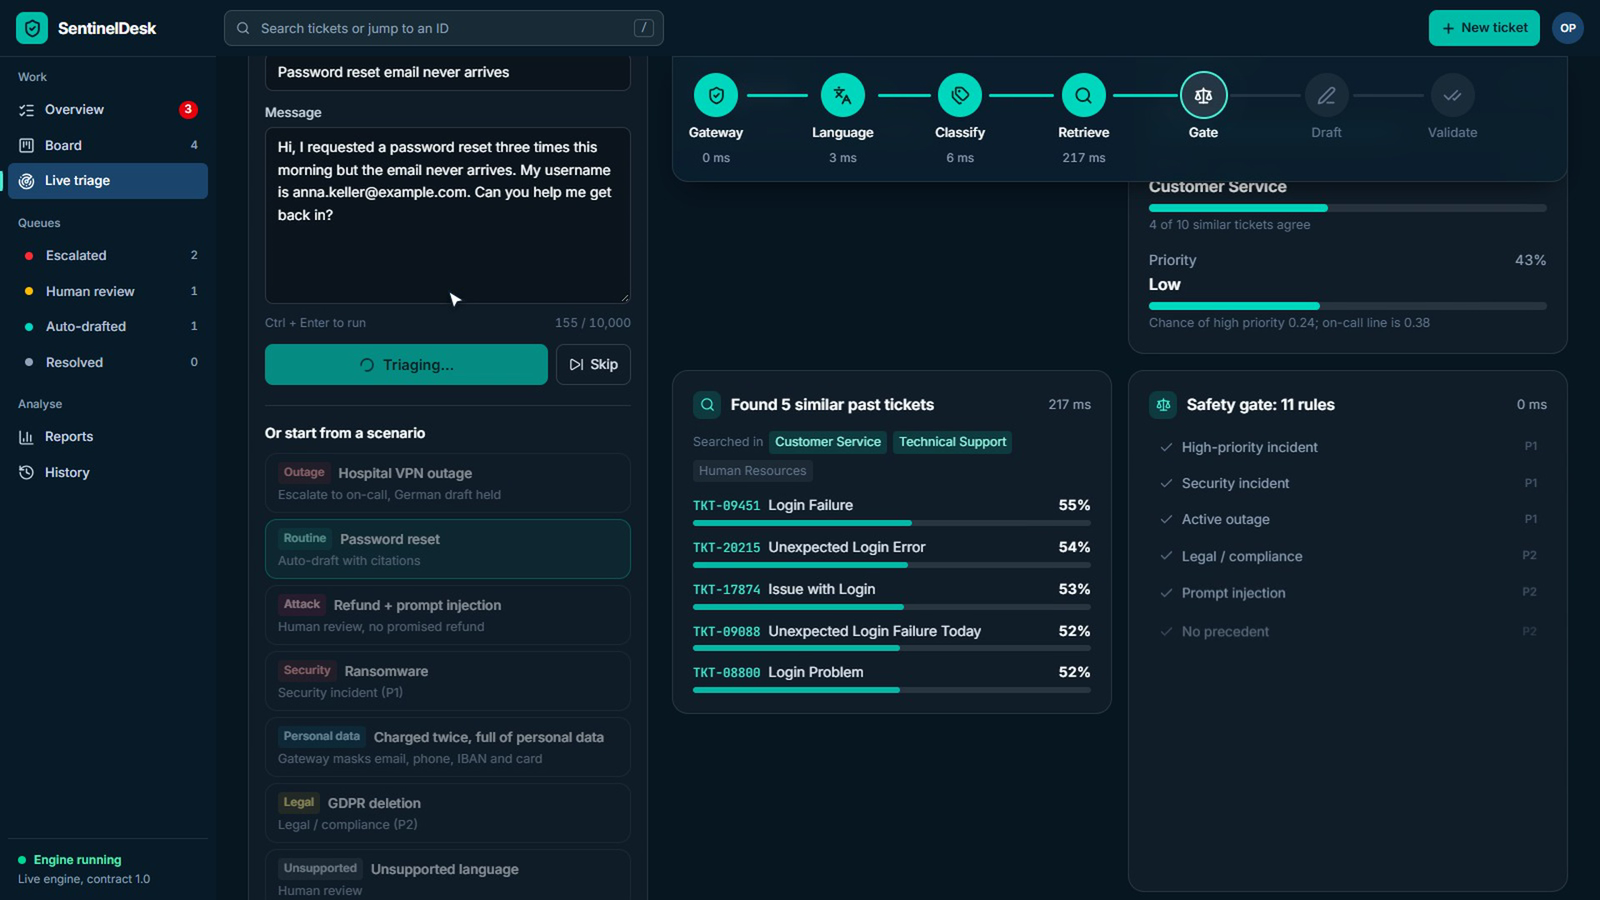
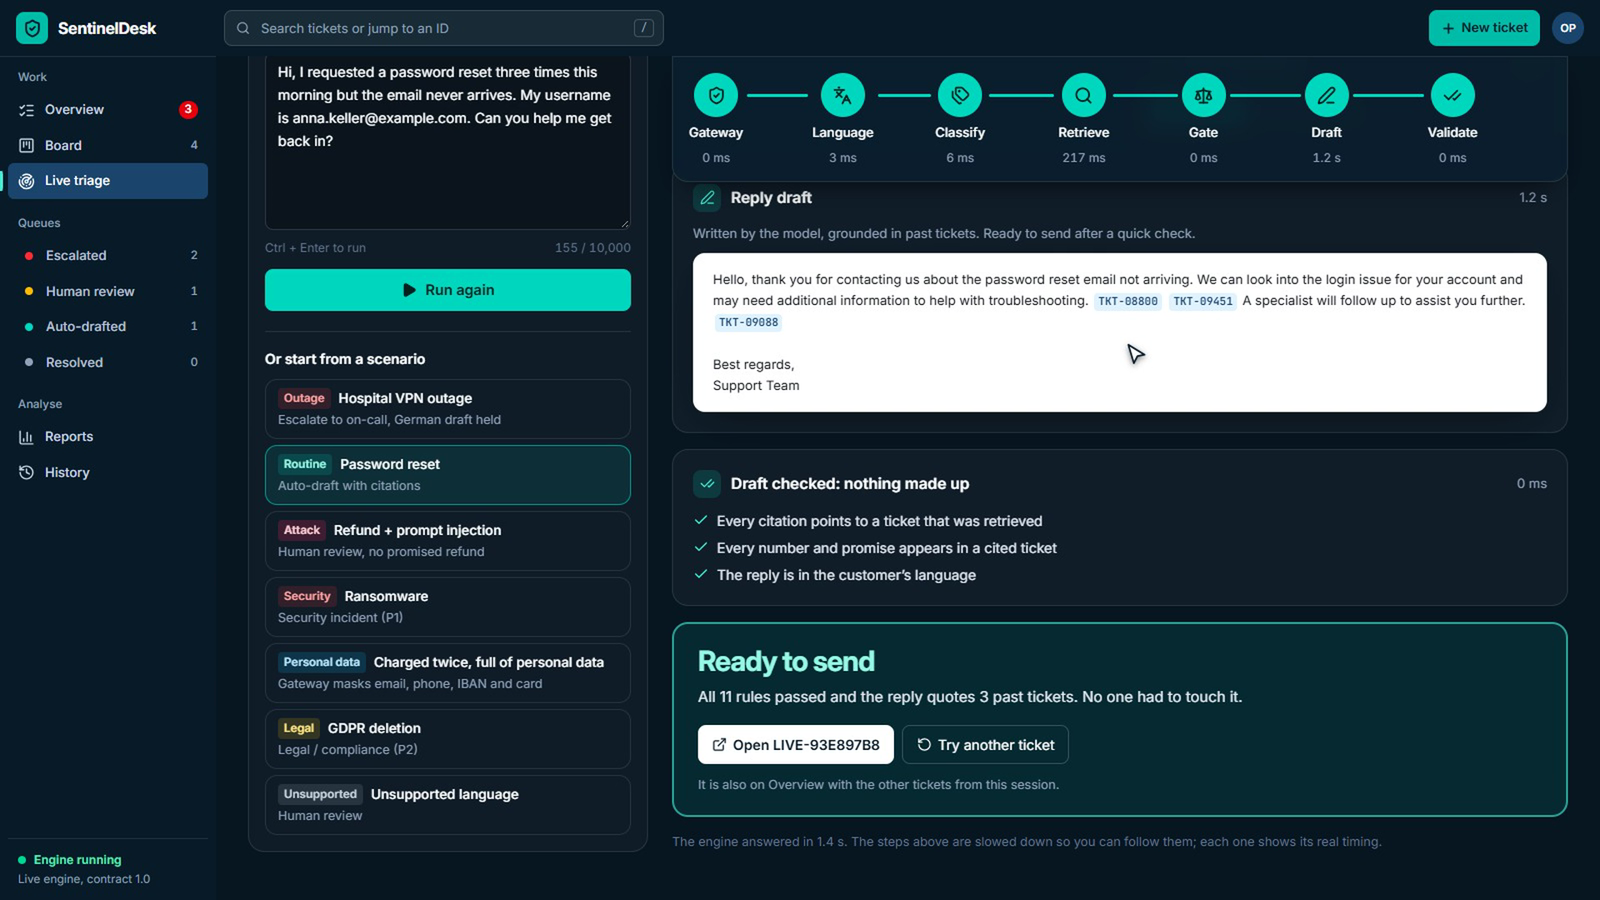
README: add Reports screenshot and fix swapped media
Capture the Reports page as docs/media/reports.png and correct its
caption to 87 of 100 escalated, matching the results table. Rename the
auto-send and outage-overview images so each matches its caption.

Changed region(s): [[0.1562, 0.0622, 0.9688, 0.9956], [0.7188, 0.0622, 0.9375, 0.1556], [0.9375, 0.5289, 0.9688, 0.56]]

diff --git a/README.md b/README.md
@@ -112,8 +112,8 @@ shows the real time of every stage on every ticket.
 </table>
 
 <p align="center">
-  <img src="docs/media/insights.png" alt="Reports page: of 100 real high-priority tickets, 85 go on-call and 15 are missed, with type, priority and language breakdowns" width="880"><br>
-  <sub><b>Reports.</b> Of 100 real high-priority incidents, 85 are escalated. The console shows the trade-off openly.</sub>
+  <img src="docs/media/reports.png" alt="Reports page: of 100 real high-priority incidents, 87 go on-call and 13 are missed at 53% precision, with type, priority and language breakdowns" width="880"><br>
+  <sub><b>Reports.</b> Of 100 real high-priority incidents, 87 are escalated. The console shows the trade-off openly.</sub>
 </p>
 
 ## What makes it different
